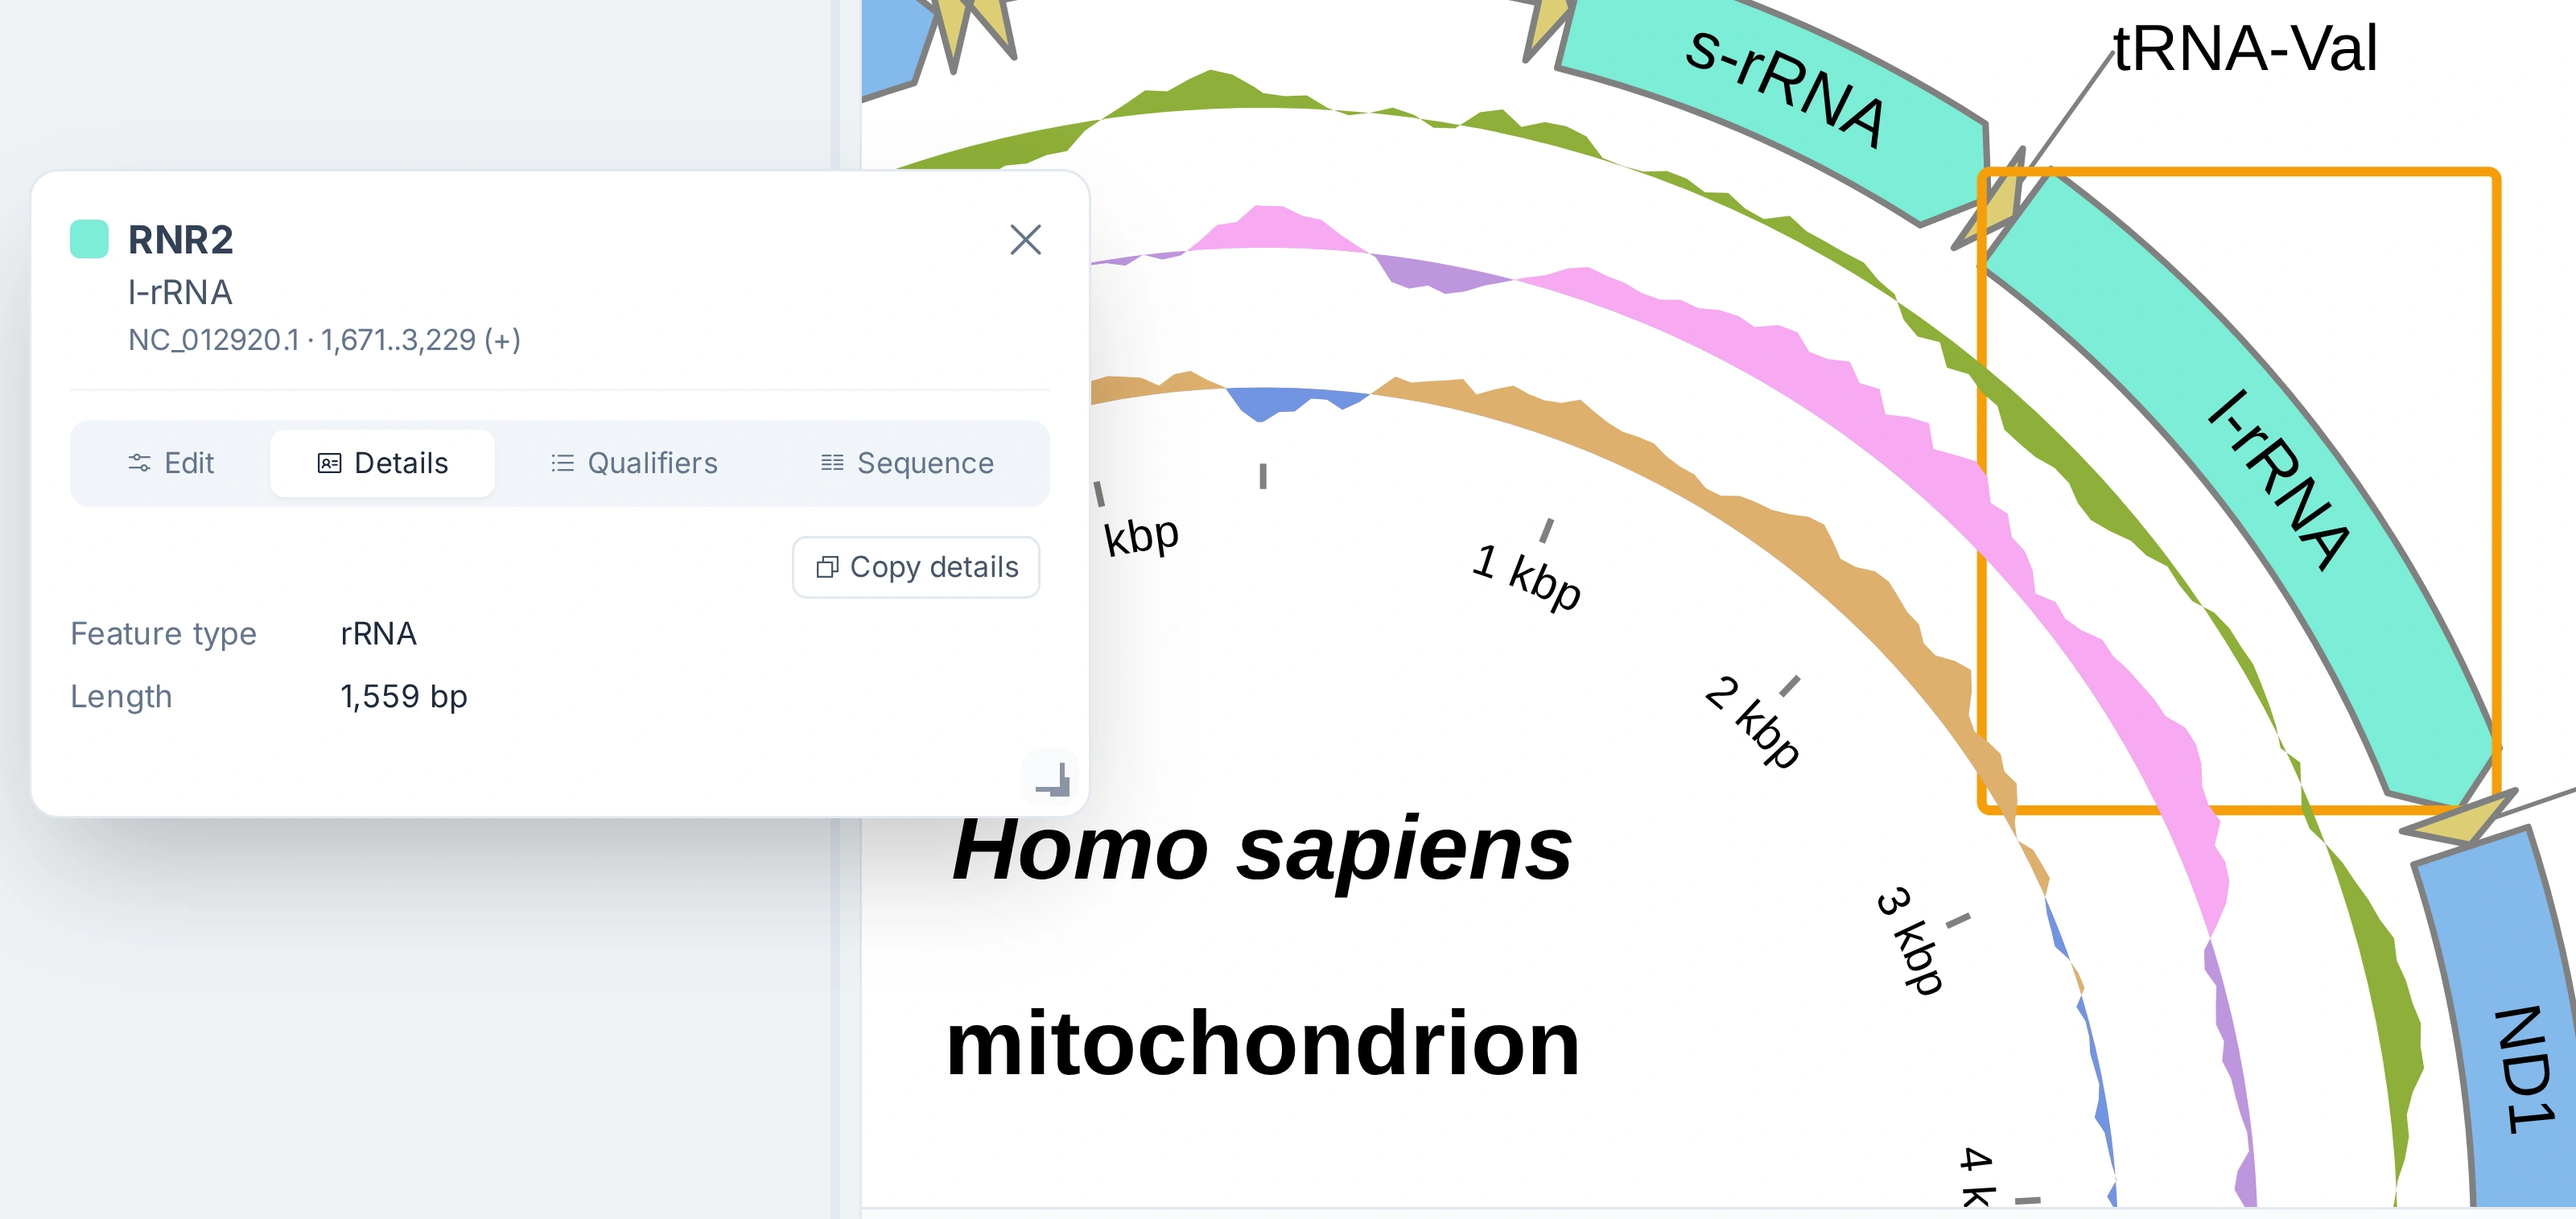
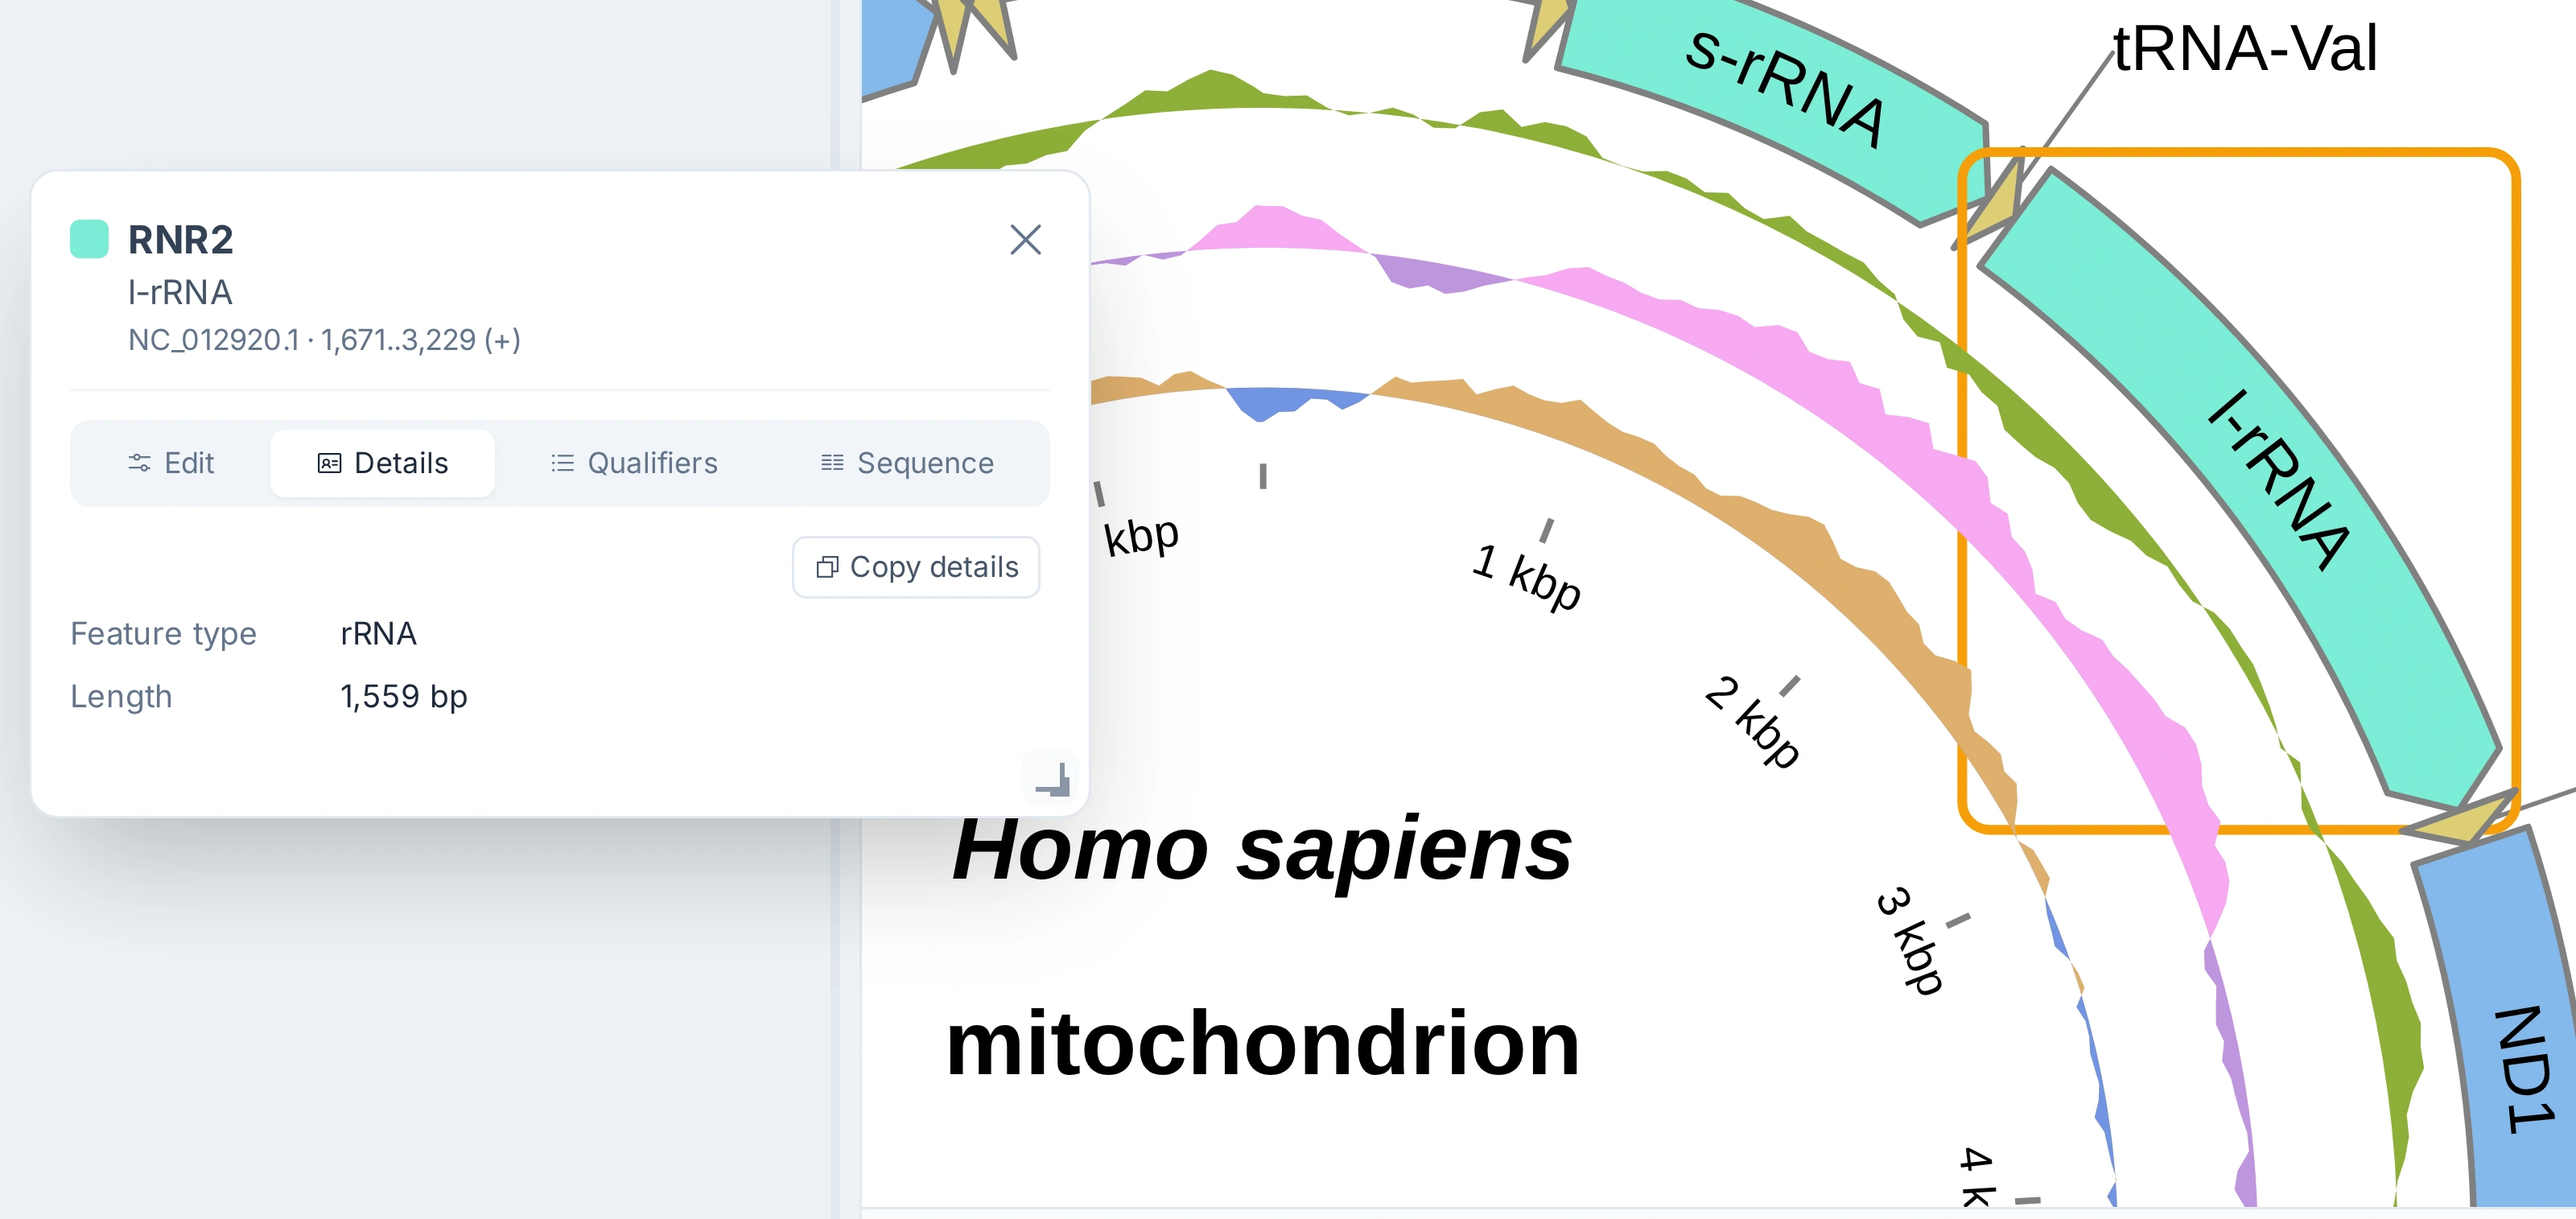
Retake the AT skew feature popup with its frame outside the feature
The l-rRNA label lies inside the highlighted feature's box, so it no
longer pulls the frame onto the feature (OV-3492). Changelog fragment
for the frame fixes and the Vnig Record Order retake.

Changed region(s): [[0.7498, 0.0931, 0.9997, 0.7135]]

diff --git a/changelog.d/fix-gallery-capture-frames.md b/changelog.d/fix-gallery-capture-frames.md
@@ -1,0 +1,5 @@
+- Fixed: in the Gallery, the highlight frame in a tutorial screenshot no longer
+  crosses a figure label or the highlighted control's own text, and the frame
+  around the l-rRNA feature in the AT skew tutorial sits outside the feature
+  again. The Record Order screenshot of the *Vibrio nigripulchritudo* tutorial no
+  longer shows the Record Size Mode note that the Web app no longer draws.
